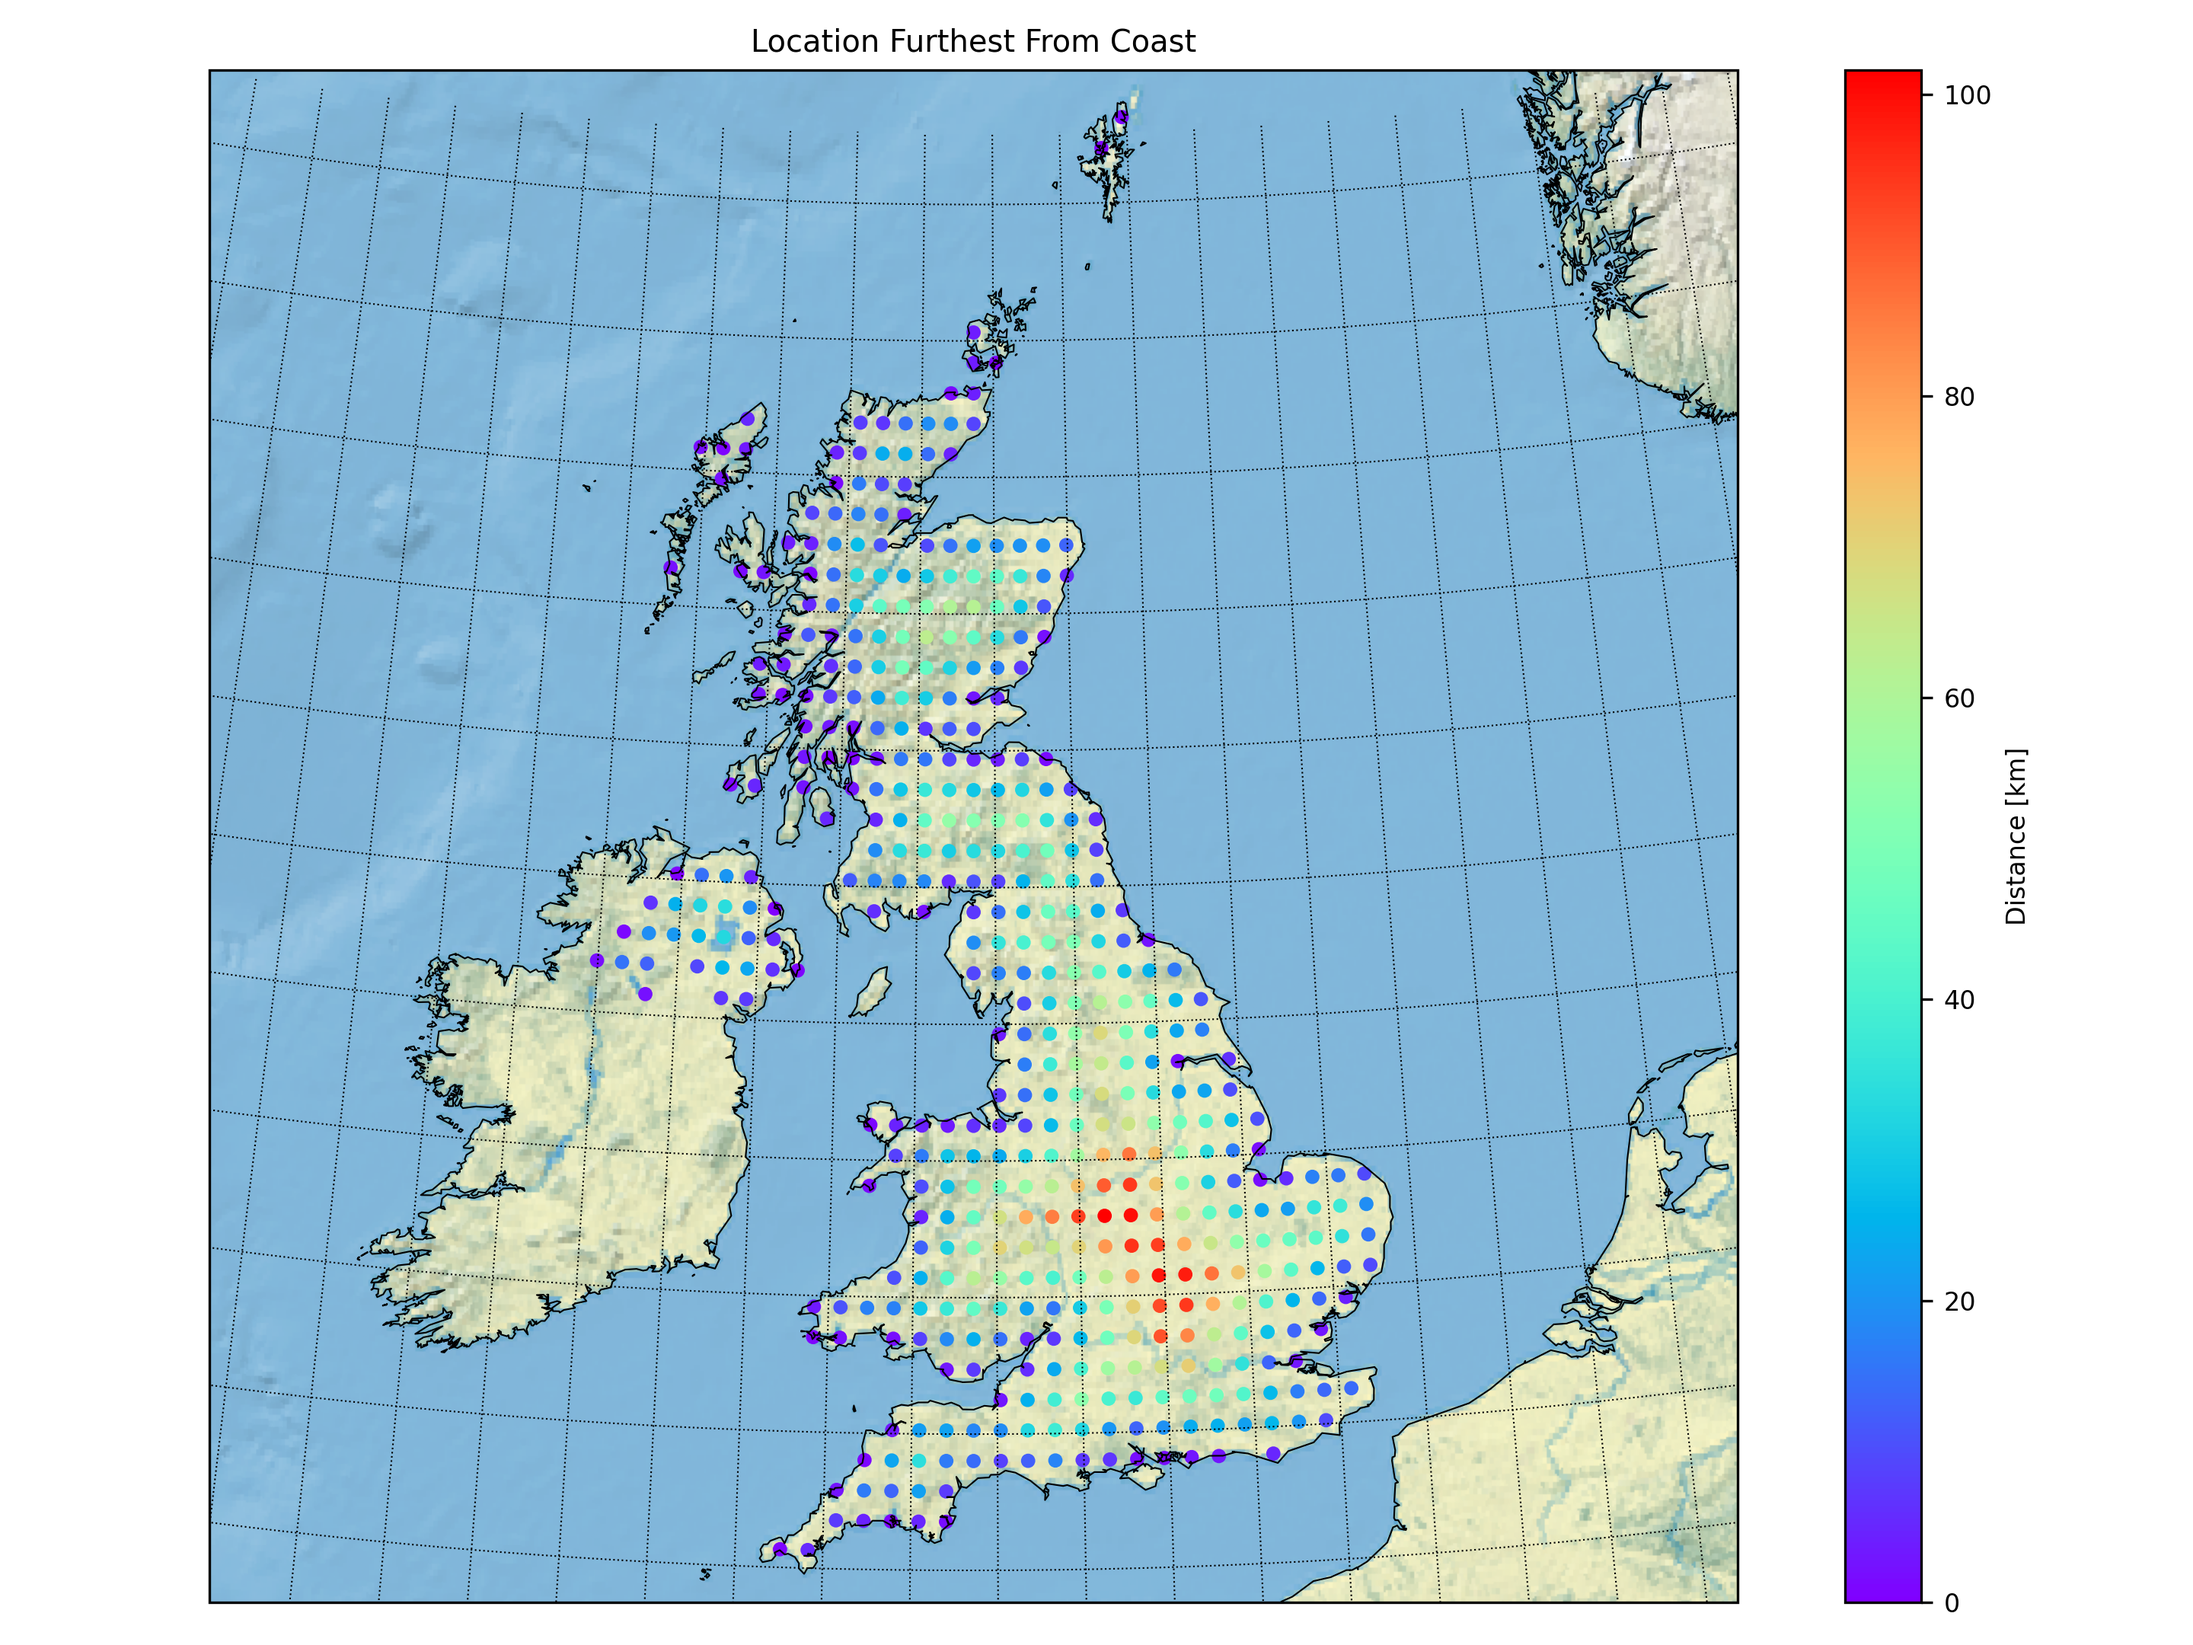
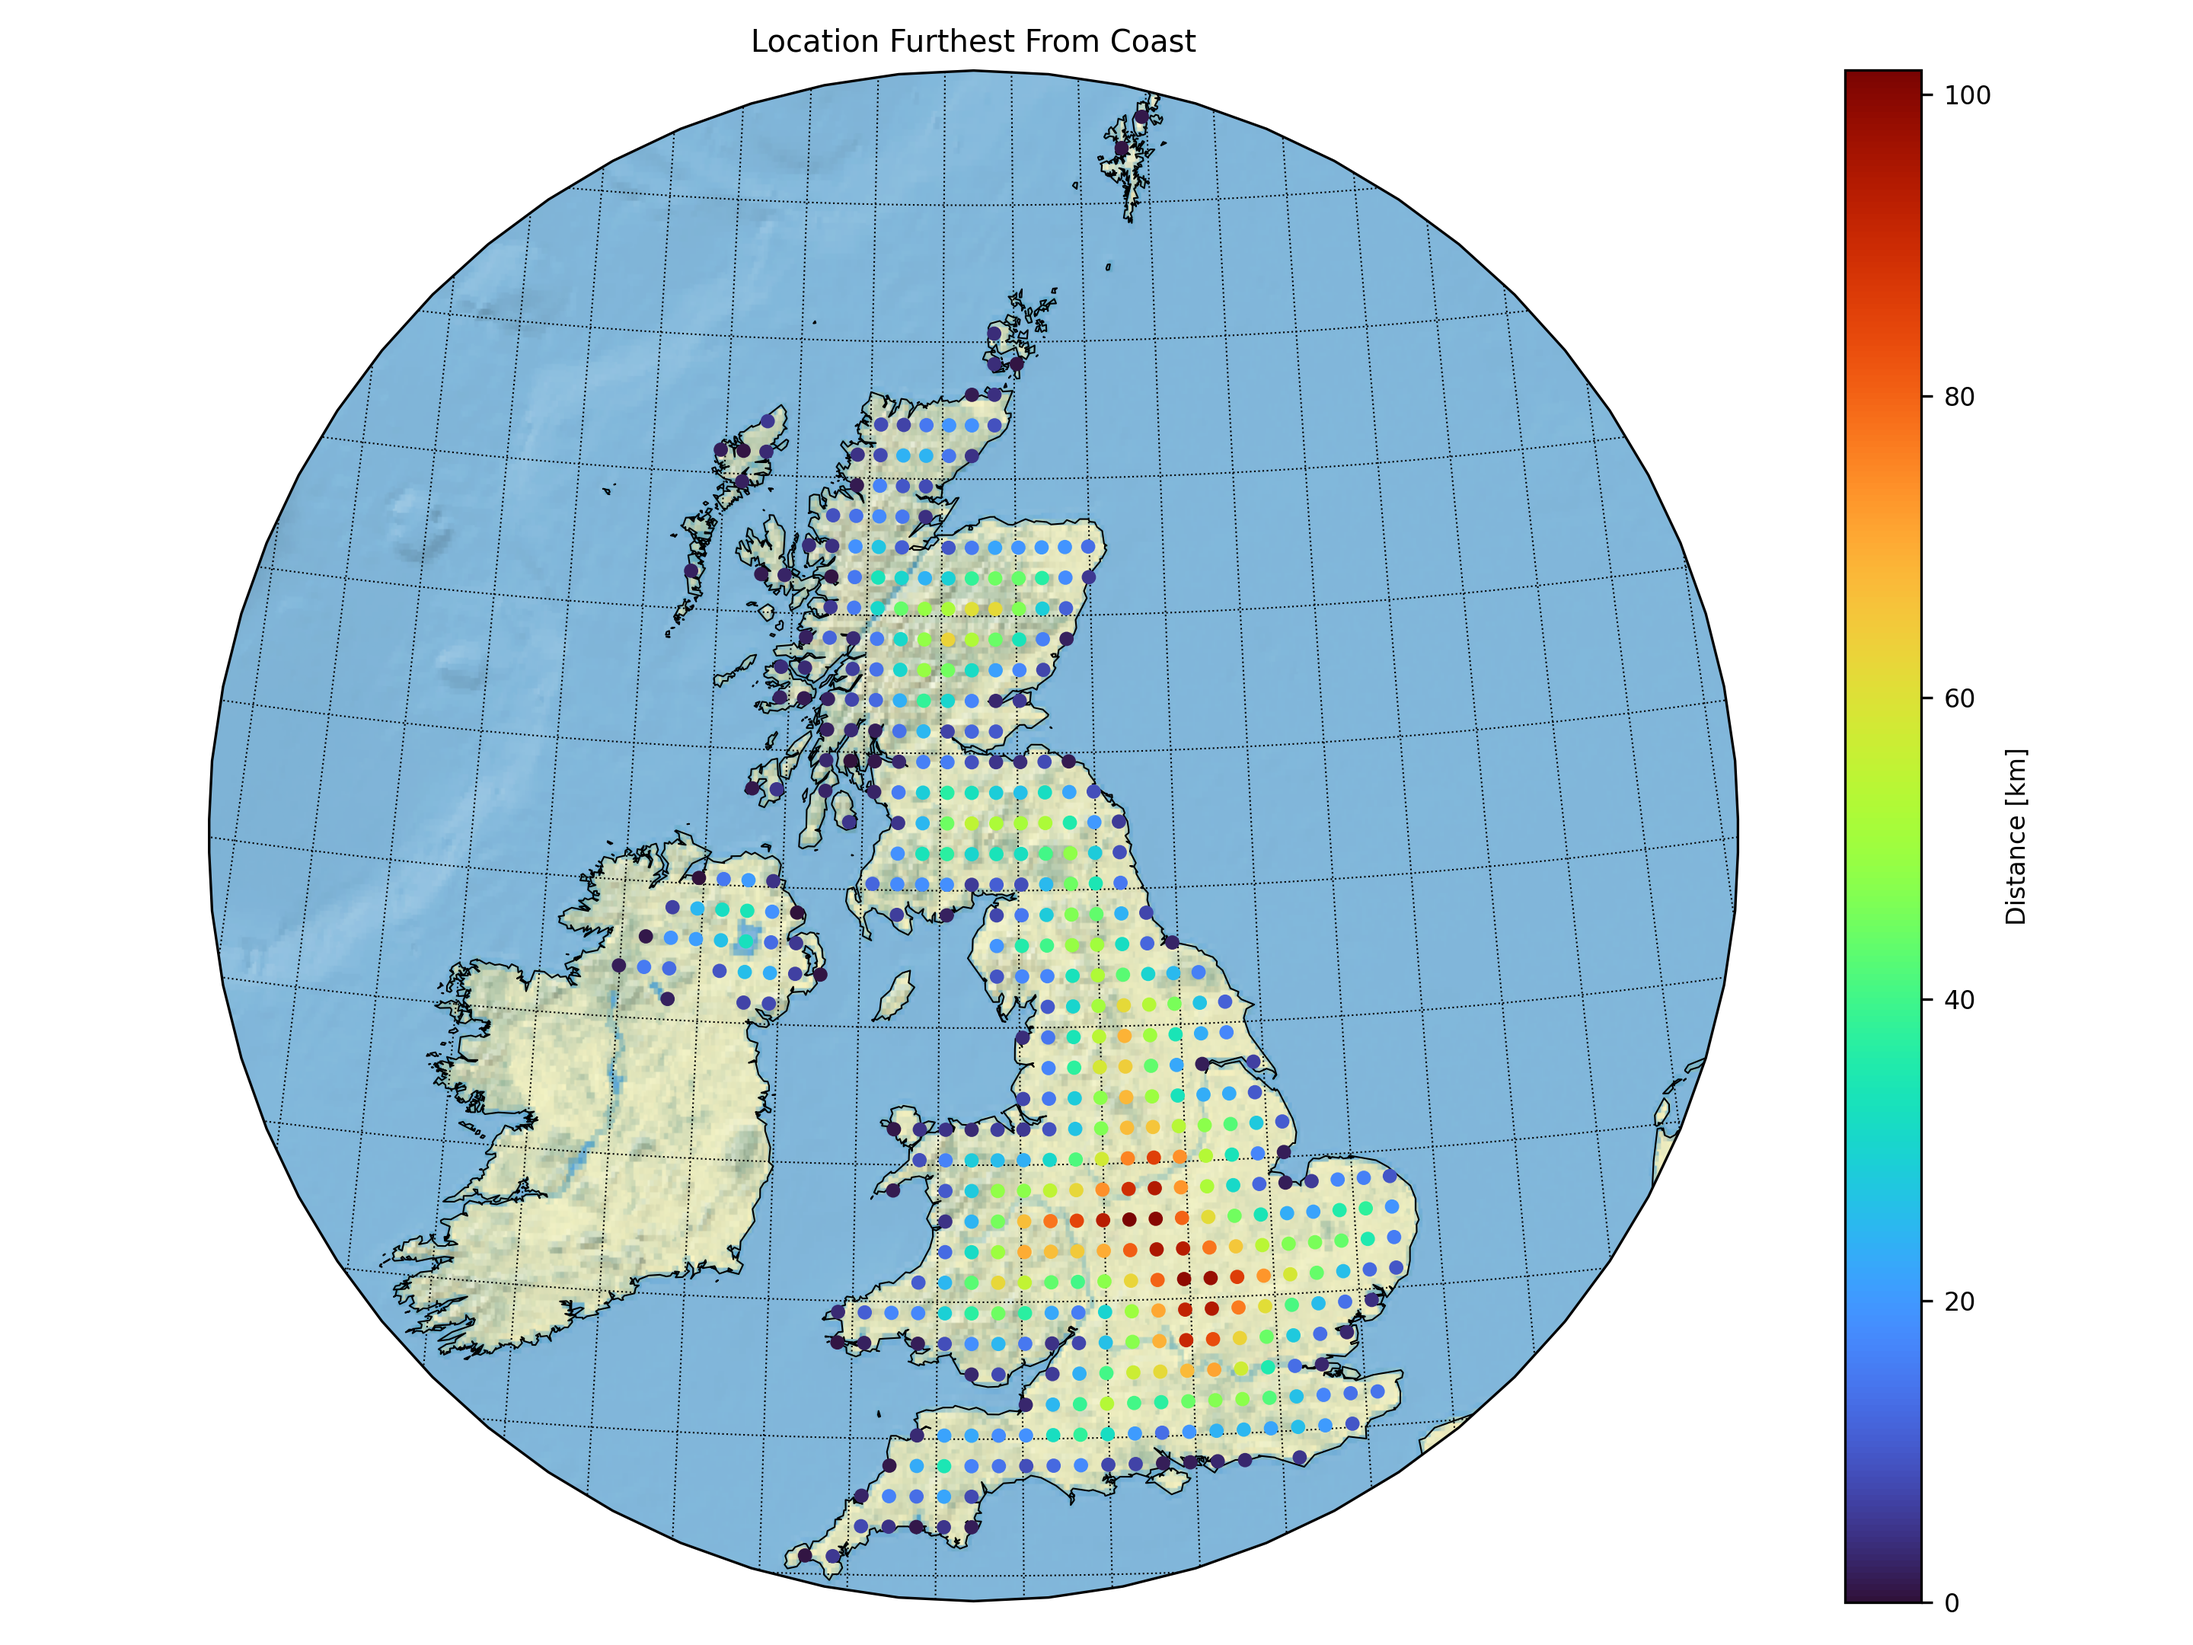
use a better colour map

diff --git a/flffc/run.py b/flffc/run.py
@@ -186,7 +186,7 @@ def run(
             xpoints,
             ypoints,
                     c = zpoints,
-                 cmap = matplotlib.colormaps["rainbow"],
+                 cmap = matplotlib.colormaps["turbo"],
             linewidth = 0.5,
                     s = pow(200.0 / steps, 2),
             transform = cartopy.crs.Geodetic(),
